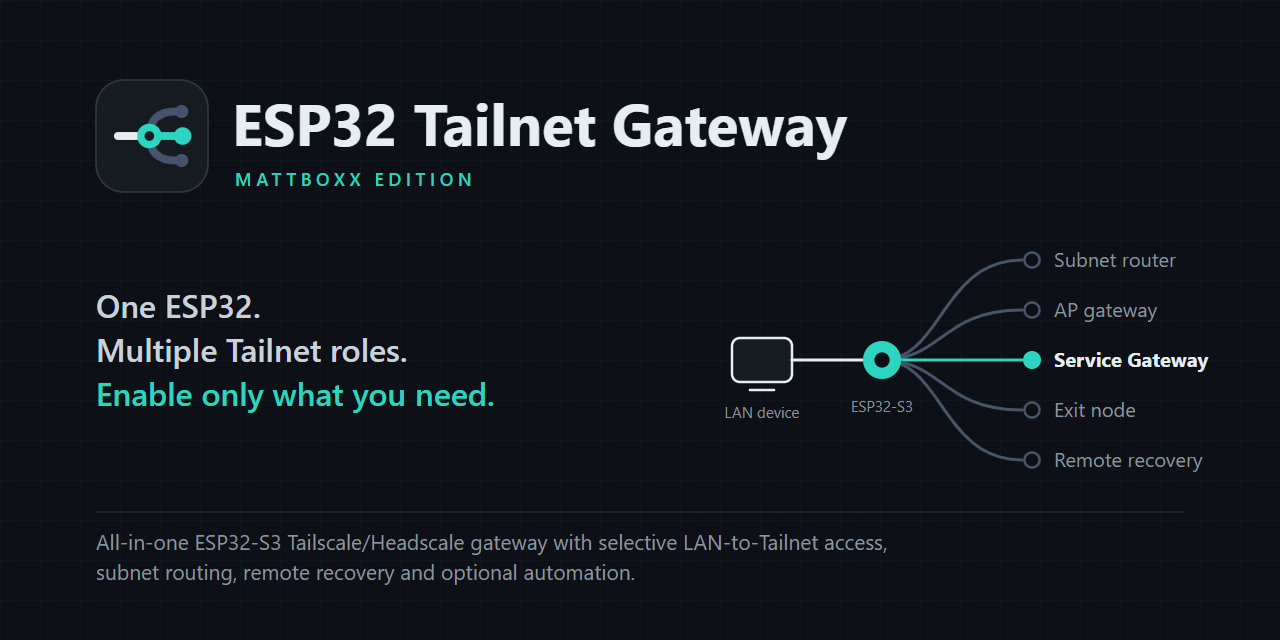
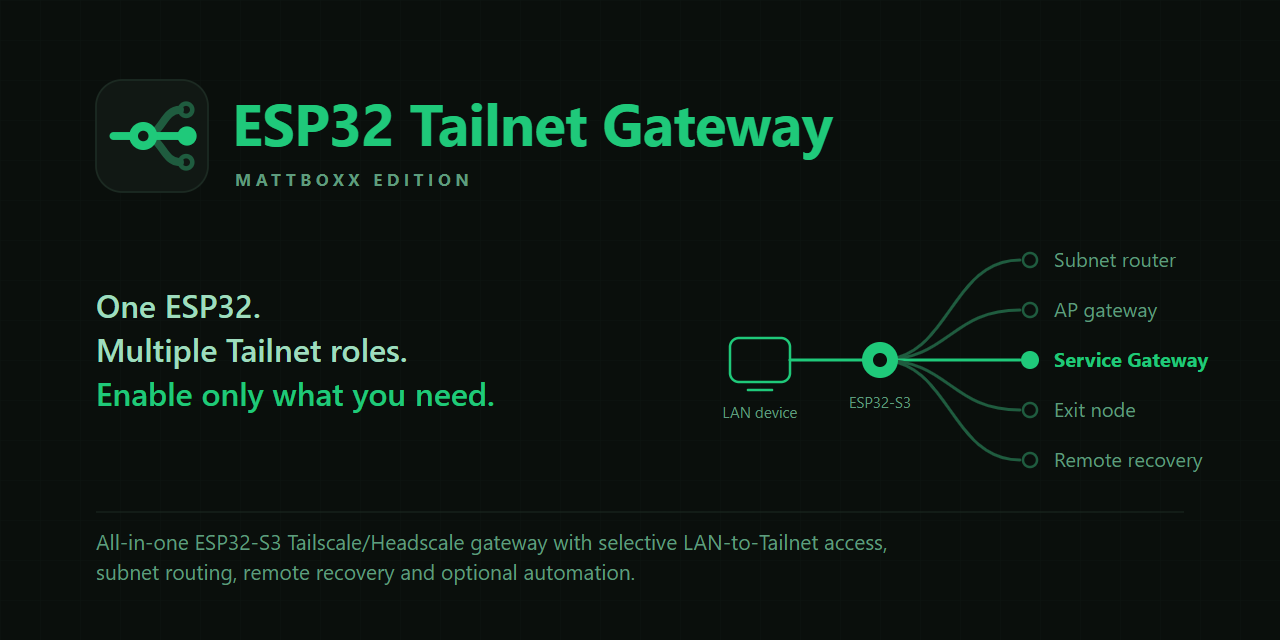
Black/green brand sources generated from one script (partial)
tools/brand_svg.py writes every brand SVG from a single geometry and a
black/green-only palette (no white strokes or fills): tile mark,
transparent dark and light marks, single-colour marks, lockups, a compact
stacked lockup, banner and social preview; PNG exports re-rendered.
Not yet applied to the Web UI, website CSS/hero, diagrams or BRAND.md.

diff --git a/tools/brand_svg.py b/tools/brand_svg.py
@@ -1,0 +1,195 @@
+"""Generate every brand SVG from one geometry and one black/green palette.
+
+    python tools/brand_svg.py            # writes assets/brand/*.svg
+    node tools/render_brand_assets.mjs   # then renders the PNG exports
+
+The mark: a LAN input enters the ESP32 hub and leaves as three Tailnet roles;
+one role is lit (green), the others are off (dim green on dark, black outline
+on light). Only black and green are used; no white strokes or fills.
+"""
+from pathlib import Path
+
+ROOT = Path(__file__).resolve().parents[1]
+OUT = ROOT / 'assets/brand'
+
+INK = '#0A0F0C'        # brand black (slightly green-tinted)
+INK_2 = '#111814'      # raised black surface
+LINE = '#1C2A22'       # hairlines on black
+GREEN = '#1FC97A'      # signal green: lit role, text on black
+GREEN_DEEP = '#0B7A4B'  # green for light backgrounds (contrast on white)
+GREEN_DIM = '#1F5C3F'  # "off" roles on black
+GREEN_SOFT = '#9FDCBE'  # secondary text on black (green tint, not white)
+GREEN_MUTED = '#5E9C7D'  # tertiary text on black
+FONT = "Inter, 'Segoe UI', Roboto, 'Helvetica Neue', Arial, sans-serif"
+
+
+def glyph(input_, hub, off, core, lit=None):
+    """64x64 mark without background. `core` fills the hub centre."""
+    lit = lit or hub
+    return (
+        '<g fill="none" stroke-linecap="round" stroke-width="4.5">'
+        f'<path d="M10 32h17" stroke="{input_}"/>'
+        f'<path d="M27 32c11 0 11-15 21-15M27 32c11 0 11 15 21 15" stroke="{off}"/>'
+        f'<path d="M27 32h21" stroke="{lit}"/></g>'
+        f'<circle cx="27" cy="32" r="8" fill="{hub}"/>'
+        f'<circle cx="27" cy="32" r="3" fill="{core}"/>'
+        f'<circle cx="52" cy="32" r="5.5" fill="{lit}"/>'
+        f'<circle cx="51.5" cy="17" r="3.5" fill="none" stroke="{off}" stroke-width="2.6"/>'
+        f'<circle cx="51.5" cy="47" r="3.5" fill="none" stroke="{off}" stroke-width="2.6"/>')
+
+
+def mark_on_dark(core=INK):
+    return glyph(GREEN, GREEN, GREEN_DIM, core)
+
+
+def svg(view_box, body, title, desc=None, size=None):
+    wh = f' width="{size[0]}" height="{size[1]}"' if size else ''
+    d = f'<desc id="d">{desc}</desc>' if desc else ''
+    labelled = 't d' if desc else 't'
+    return (f'<svg xmlns="http://www.w3.org/2000/svg" viewBox="{view_box}"{wh} role="img" aria-labelledby="{labelled}">'
+            f'<title id="t">{title}</title>{d}{body}</svg>\n')
+
+
+def tile(fill=INK, stroke=None):
+    s = f' stroke="{stroke}"' if stroke else ''
+    return f'<rect width="64" height="64" rx="15" fill="{fill}"{s}/>'
+
+
+def light_glyph():
+    # Hub as a green ring (transparent core) so no white is needed on light backgrounds.
+    return (
+        '<g fill="none" stroke-linecap="round" stroke-width="4.5">'
+        f'<path d="M10 32h11.5" stroke="{INK}"/>'
+        f'<path d="M32.5 32c5.5 0 6.5-15 15.5-15M32.5 32c5.5 0 6.5 15 15.5 15" stroke="{INK}"/>'
+        f'<path d="M32.5 32h15.5" stroke="{GREEN_DEEP}"/></g>'
+        f'<circle cx="27" cy="32" r="6" fill="none" stroke="{GREEN_DEEP}" stroke-width="4.5"/>'
+        f'<circle cx="52" cy="32" r="5.5" fill="{GREEN_DEEP}"/>'
+        f'<circle cx="51.5" cy="17" r="3.5" fill="none" stroke="{INK}" stroke-width="2.6"/>'
+        f'<circle cx="51.5" cy="47" r="3.5" fill="none" stroke="{INK}" stroke-width="2.6"/>')
+
+
+def mono(color):
+    return (
+        '<g fill="none" stroke-linecap="round">'
+        f'<path d="M10 32h17M27 32h21" stroke="{color}" stroke-width="4.5"/>'
+        f'<path d="M27 32c11 0 11-15 21-15M27 32c11 0 11 15 21 15" stroke="{color}" stroke-width="2.6"/>'
+        f'<circle cx="51.5" cy="17" r="3.5" stroke="{color}" stroke-width="2.4"/>'
+        f'<circle cx="51.5" cy="47" r="3.5" stroke="{color}" stroke-width="2.4"/></g>'
+        f'<circle cx="27" cy="32" r="8" fill="{color}"/><circle cx="52" cy="32" r="5.5" fill="{color}"/>')
+
+
+def lockup(dark):
+    if dark:
+        mark = f'<g transform="translate(8 8) scale(1.25)">{tile(INK_2, LINE)}{mark_on_dark(INK_2)}</g>'
+        word, edition = GREEN, GREEN_MUTED
+    else:
+        mark = f'<g transform="translate(8 8) scale(1.25)">{tile(INK)}{mark_on_dark(INK)}</g>'
+        word, edition = INK, GREEN_DEEP
+    text = (f'<g font-family="{FONT}"><text x="108" y="52" font-size="34" font-weight="650" letter-spacing="-0.4" fill="{word}">ESP32 Tailnet Gateway</text>'
+            f'<text x="110" y="80" font-size="13.5" font-weight="650" letter-spacing="3.6" fill="{edition}">MATTBOXX EDITION</text></g>')
+    return svg('0 0 560 96', mark + text, 'ESP32 Tailnet Gateway — Mattboxx Edition')
+
+
+def compact_lockup():
+    """Stacked mark + short name for small spaces (square-ish)."""
+    body = (f'<rect width="200" height="200" rx="40" fill="{INK}"/>'
+            f'<g transform="translate(52 22) scale(1.5)">{mark_on_dark(INK)}</g>'
+            f'<g font-family="{FONT}" text-anchor="middle"><text x="100" y="146" font-size="25" font-weight="700" fill="{GREEN}" letter-spacing="-0.3">Tailnet</text>'
+            f'<text x="100" y="172" font-size="25" font-weight="700" fill="{GREEN}" letter-spacing="-0.3">Gateway</text></g>')
+    return svg('0 0 200 200', body, 'ESP32 Tailnet Gateway (compact)')
+
+
+def roles(x0, y0, _scale, labels_x, font_size, label_lit, label_off):
+    """Illustration: LAN device -> hub -> five roles, Service Gateway lit."""
+    ys = [y0 - 100, y0 - 50, y0, y0 + 50, y0 + 100]
+    names = ['Subnet router', 'AP gateway', 'Service Gateway', 'Exit node', 'Remote recovery']
+    hx = x0 + 120
+    parts = [
+        f'<rect x="{x0 - 30}" y="{y0 - 22}" width="60" height="44" rx="9" fill="none" stroke="{GREEN}" stroke-width="2.5"/>',
+        f'<path d="M{x0 - 12} {y0 + 30}h24" stroke="{GREEN}" stroke-width="2.5" stroke-linecap="round"/>',
+        f'<text x="{x0}" y="{y0 + 58}" text-anchor="middle" font-family="{FONT}" font-size="15" fill="{GREEN_MUTED}">LAN device</text>',
+        f'<path d="M{x0 + 30} {y0}H{hx}" stroke="{GREEN}" stroke-width="3" stroke-linecap="round"/>',
+        '<g fill="none" stroke-linecap="round" stroke-width="3">',
+    ]
+    end = hx + 140
+    for y in ys:
+        if y == y0:
+            parts.append(f'<path d="M{hx} {y0}H{end}" stroke="{GREEN}"/>')
+        else:
+            parts.append(f'<path d="M{hx} {y0}C{hx + 70} {y0} {hx + 70} {y} {end} {y}" stroke="{GREEN_DIM}"/>')
+    parts.append('</g>')
+    parts.append(f'<circle cx="{hx}" cy="{y0}" r="18" fill="{GREEN}"/><circle cx="{hx}" cy="{y0}" r="7" fill="{INK}"/>')
+    parts.append(f'<text x="{hx}" y="{y0 + 48}" text-anchor="middle" font-family="{FONT}" font-size="15" fill="{GREEN_MUTED}">ESP32-S3</text>')
+    for y, name in zip(ys, names):
+        if y == y0:
+            parts.append(f'<circle cx="{end + 10}" cy="{y}" r="9" fill="{GREEN}"/>')
+            parts.append(f'<text x="{labels_x}" y="{y + 7}" font-family="{FONT}" font-size="{font_size}" font-weight="650" fill="{label_lit}">{name}</text>')
+        else:
+            parts.append(f'<circle cx="{end + 10}" cy="{y}" r="7" fill="none" stroke="{GREEN_DIM}" stroke-width="2.5"/>')
+            parts.append(f'<text x="{labels_x}" y="{y + 7}" font-family="{FONT}" font-size="{font_size}" fill="{label_off}">{name}</text>')
+    return ''.join(parts)
+
+
+def grid(w, h):
+    return (f'<defs><pattern id="grid" width="40" height="40" patternUnits="userSpaceOnUse">'
+            f'<path d="M40 0H0V40" fill="none" stroke="#0F1612" stroke-width="1"/></pattern></defs>'
+            f'<rect width="{w}" height="{h}" fill="{INK}"/><rect width="{w}" height="{h}" fill="url(#grid)"/>')
+
+
+def banner():
+    body = grid(1280, 400)
+    body += f'<g transform="translate(80 84) scale(1.5)">{tile(INK_2, LINE)}{mark_on_dark(INK_2)}</g>'
+    body += (f'<g font-family="{FONT}"><text x="200" y="134" font-size="50" font-weight="650" letter-spacing="-0.6" fill="{GREEN}">ESP32 Tailnet Gateway</text>'
+             f'<text x="203" y="170" font-size="15" font-weight="650" letter-spacing="4" fill="{GREEN_MUTED}">MATTBOXX EDITION</text>'
+             f'<text x="80" y="268" font-size="28" font-weight="500" fill="{GREEN_SOFT}">One ESP32. Multiple Tailnet roles.</text>'
+             f'<text x="80" y="308" font-size="28" font-weight="600" fill="{GREEN}">Enable only what you need.</text></g>')
+    body += roles(770, 200, 1, 1060, 18, GREEN, GREEN_MUTED)
+    return svg('0 0 1280 400', body, 'ESP32 Tailnet Gateway — Mattboxx Edition',
+               'One ESP32. Multiple Tailnet roles. Enable only what you need. A LAN device passes through the ESP32; the Service Gateway role is lit while subnet router, AP gateway, exit node and remote recovery stay off until enabled.',
+               (1280, 400))
+
+
+def social():
+    body = grid(1280, 640)
+    body += f'<g transform="translate(96 80) scale(1.75)">{tile(INK_2, LINE)}{mark_on_dark(INK_2)}</g>'
+    body += (f'<g font-family="{FONT}"><text x="232" y="146" font-size="58" font-weight="650" letter-spacing="-0.7" fill="{GREEN}">ESP32 Tailnet Gateway</text>'
+             f'<text x="235" y="186" font-size="17" font-weight="650" letter-spacing="4.5" fill="{GREEN_MUTED}">MATTBOXX EDITION</text>'
+             f'<text x="96" y="318" font-size="32" font-weight="500" fill="{GREEN_SOFT}">One ESP32.</text>'
+             f'<text x="96" y="362" font-size="32" font-weight="500" fill="{GREEN_SOFT}">Multiple Tailnet roles.</text>'
+             f'<text x="96" y="406" font-size="32" font-weight="600" fill="{GREEN}">Enable only what you need.</text></g>')
+    body += roles(760, 360, 1, 1054, 20, GREEN, GREEN_MUTED)
+    body += f'<path d="M96 512H1184" stroke="{LINE}" stroke-width="1"/>'
+    body += (f'<g font-family="{FONT}" font-size="21" fill="{GREEN_MUTED}">'
+             '<text x="96" y="550">All-in-one ESP32-S3 Tailscale/Headscale gateway with selective LAN-to-Tailnet access,</text>'
+             '<text x="96" y="580">subnet routing, remote recovery and optional automation.</text></g>')
+    return svg('0 0 1280 640', body, 'ESP32 Tailnet Gateway — Mattboxx Edition',
+               'All-in-one ESP32-S3 Tailscale/Headscale gateway with selective LAN-to-Tailnet access, subnet routing, remote recovery and optional automation.',
+               (1280, 640))
+
+
+def main():
+    files = {
+        'logo-mark.svg': svg('0 0 64 64', tile() + mark_on_dark(), 'ESP32 Tailnet Gateway'),
+        'logo-mark-dark.svg': svg('0 0 64 64', mark_on_dark('none').replace('<circle cx="27" cy="32" r="3" fill="none"/>', ''),
+                                  'ESP32 Tailnet Gateway (transparent, for dark backgrounds)'),
+        'logo-mark-light.svg': svg('0 0 64 64', light_glyph(), 'ESP32 Tailnet Gateway (transparent, for light backgrounds)'),
+        'logo-mono.svg': svg('0 0 64 64', mono('currentColor'), 'ESP32 Tailnet Gateway (single colour, currentColor)'),
+        'logo-mono-black.svg': svg('0 0 64 64', mono(INK), 'ESP32 Tailnet Gateway (black)'),
+        'logo-mono-green.svg': svg('0 0 64 64', mono(GREEN_DEEP), 'ESP32 Tailnet Gateway (green)'),
+        'logo-horizontal-dark.svg': lockup(True),
+        'logo-horizontal-light.svg': lockup(False),
+        'logo-compact.svg': compact_lockup(),
+        'banner.svg': banner(),
+        'social-preview.svg': social(),
+    }
+    for name, text in files.items():
+        (OUT / name).write_text(text, encoding='utf-8')
+    for stale in ('logo-mono-white.svg',):
+        path = OUT / stale
+        if path.exists():
+            path.unlink()
+    print('wrote', len(files), 'SVG files')
+
+
+if __name__ == '__main__':
+    main()
